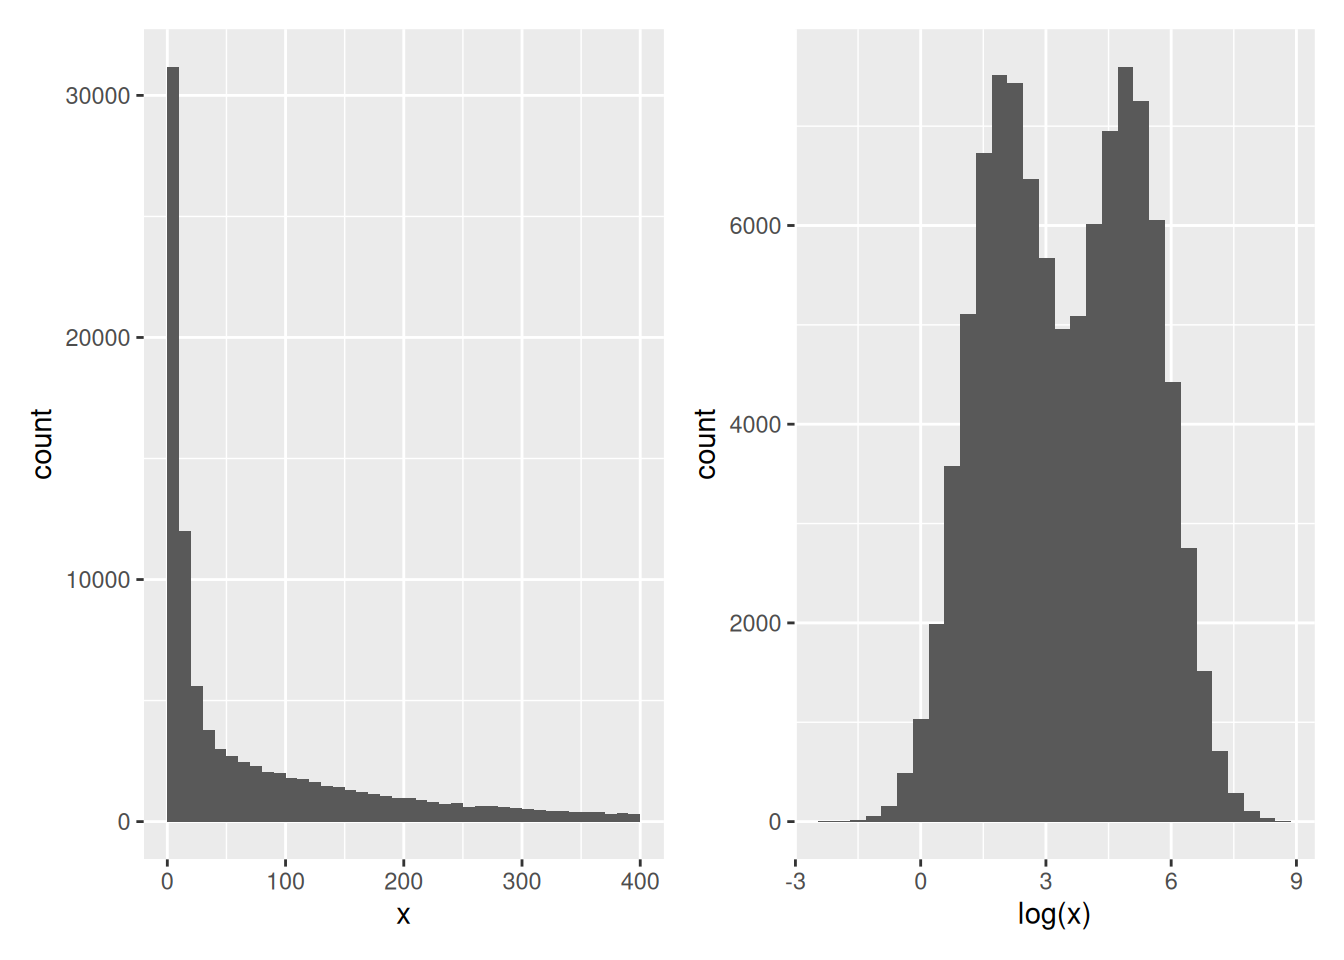
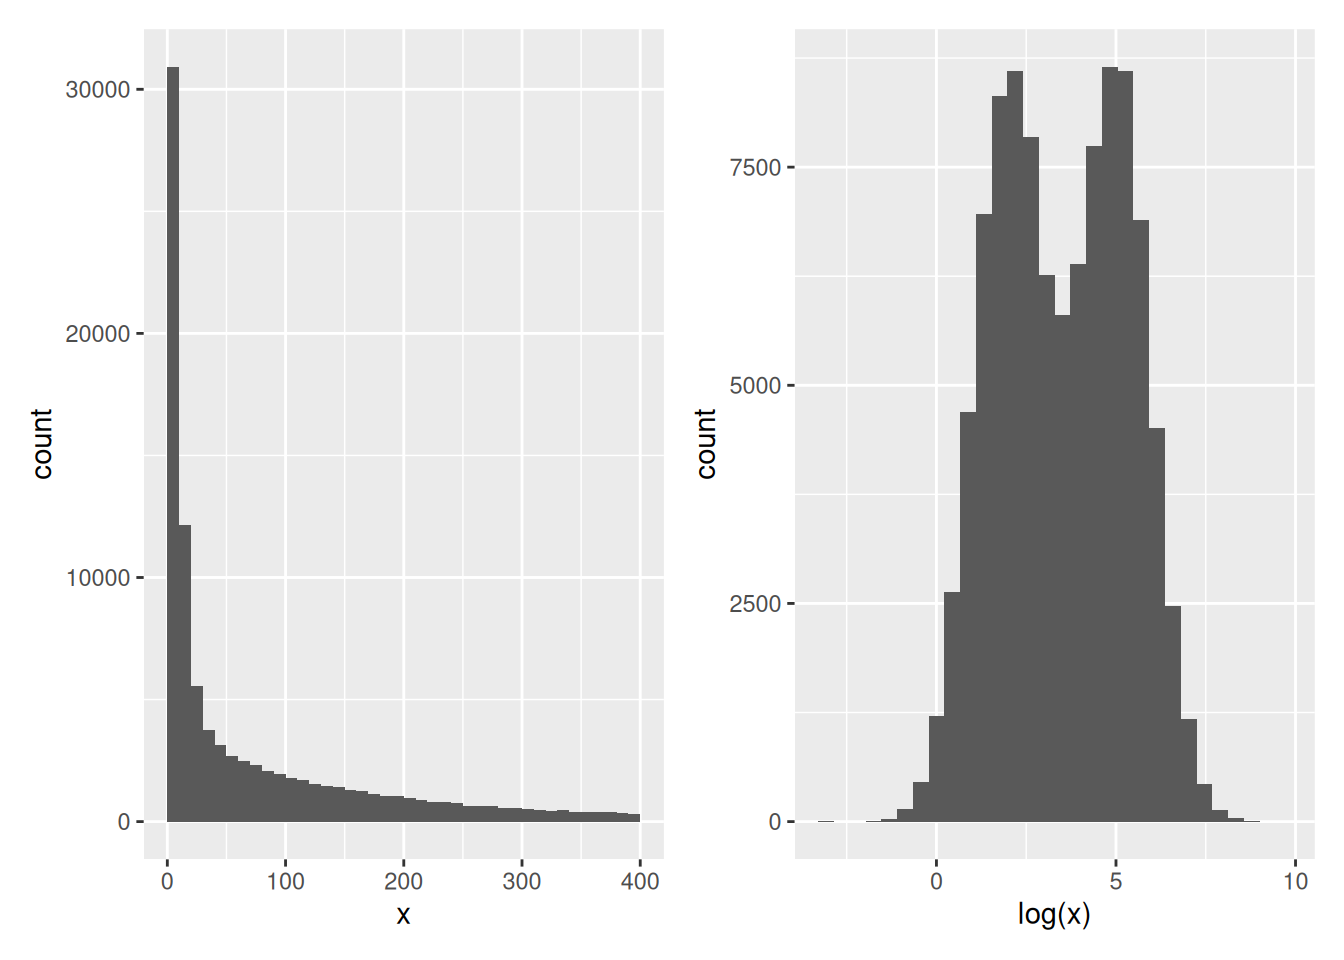
update pkg version

diff --git a/docs/sec-si.html b/docs/sec-si.html
@@ -13,7 +13,7 @@
 
 <meta name="author" content="Laurent Gatto" />
 
-<meta name="date" content="2022-11-14" />
+<meta name="date" content="2022-11-25" />
 
 <script type="text/x-mathjax-config">
 MathJax.Hub.Config({
@@ -209,8 +209,8 @@ div.csl-indent {
 ## Running under: Manjaro Linux
 ## 
 ## Matrix products: default
-## BLAS:   /usr/lib/libblas.so.3.10.1
-## LAPACK: /usr/lib/liblapack.so.3.10.1
+## BLAS:   /usr/lib/libblas.so.3.11.0
+## LAPACK: /usr/lib/liblapack.so.3.11.0
 ## 
 ## locale:
 ##  [1] LC_CTYPE=en_US.UTF-8       LC_NUMERIC=C              
@@ -227,7 +227,7 @@ div.csl-indent {
 ## other attached packages:
 ##  [1] UpSetR_1.4.0                          Vennerable_3.1.0.9000                
 ##  [3] ComplexHeatmap_2.14.0                 class_7.3-20                         
-##  [5] pRoloc_1.38.0                         BiocParallel_1.32.0                  
+##  [5] pRoloc_1.38.0                         BiocParallel_1.32.1                  
 ##  [7] MLInterfaces_1.78.0                   cluster_2.1.4                        
 ##  [9] annotate_1.76.0                       XML_3.99-0.12                        
 ## [11] AnnotationDbi_1.60.0                  bioDist_1.70.0                       
@@ -240,12 +240,12 @@ div.csl-indent {
 ## [25] Biostrings_2.66.0                     XVector_0.38.0                       
 ## [27] rWSBIM1207_0.1.15                     airway_1.18.0                        
 ## [29] SummarizedExperiment_1.28.0           Biobase_2.58.0                       
-## [31] GenomicRanges_1.50.1                  GenomeInfoDb_1.34.2                  
+## [31] GenomicRanges_1.50.1                  GenomeInfoDb_1.34.3                  
 ## [33] IRanges_2.32.0                        S4Vectors_0.36.0                     
 ## [35] BiocGenerics_0.44.0                   MatrixGenerics_1.10.0                
-## [37] matrixStats_0.62.0                    BiocStyle_2.26.0                     
+## [37] matrixStats_0.63.0                    BiocStyle_2.26.0                     
 ## [39] patchwork_1.1.2                       ggbeeswarm_0.6.0                     
-## [41] plotly_4.10.1                         Hmisc_4.7-1                          
+## [41] plotly_4.10.1                         Hmisc_4.7-2                          
 ## [43] Formula_1.2-4                         survival_3.4-0                       
 ## [45] lattice_0.20-45                       forcats_0.5.2                        
 ## [47] stringr_1.4.1                         dplyr_1.0.10                         
@@ -256,37 +256,37 @@ div.csl-indent {
 ## 
 ## loaded via a namespace (and not attached):
 ##   [1] rappdirs_0.3.3           ModelMetrics_1.2.2.2     coda_0.19-4             
-##   [4] bit64_4.0.5              knitr_1.40               DelayedArray_0.24.0     
-##   [7] data.table_1.14.4        rpart_4.1.19             hardhat_1.2.0           
+##   [4] bit64_4.0.5              knitr_1.41               DelayedArray_0.24.0     
+##   [7] data.table_1.14.6        rpart_4.1.19             hardhat_1.2.0           
 ##  [10] KEGGREST_1.38.0          RCurl_1.98-1.9           AnnotationFilter_1.22.0 
 ##  [13] doParallel_1.0.17        generics_0.1.3           preprocessCore_1.60.0   
 ##  [16] RSQLite_2.2.18           future_1.29.0            proxy_0.4-27            
-##  [19] bit_4.0.4                tzdb_0.3.0               xml2_1.3.3              
+##  [19] bit_4.0.5                tzdb_0.3.0               xml2_1.3.3              
 ##  [22] lubridate_1.9.0          assertthat_0.2.1         isoband_0.2.6           
 ##  [25] viridis_0.6.2            gargle_1.2.1             gower_1.0.0             
-##  [28] xfun_0.34                hms_1.1.2                jquerylib_0.1.4         
+##  [28] xfun_0.35                hms_1.1.2                jquerylib_0.1.4         
 ##  [31] evaluate_0.18            fansi_1.0.3              restfulr_0.0.15         
 ##  [34] progress_1.2.2           dendextend_1.16.0        dbplyr_2.2.1            
 ##  [37] readxl_1.4.1             igraph_1.3.5             DBI_1.1.3               
 ##  [40] htmlwidgets_1.5.4        googledrive_2.0.0        ellipsis_0.3.2          
-##  [43] ggpubr_0.4.0             backports_1.4.1          bookdown_0.29           
-##  [46] biomaRt_2.54.0           deldir_1.0-6             vctrs_0.5.0             
+##  [43] ggpubr_0.5.0             backports_1.4.1          bookdown_0.30           
+##  [46] biomaRt_2.54.0           deldir_1.0-6             vctrs_0.5.1             
 ##  [49] Cairo_1.6-0              abind_1.4-5              caret_6.0-93            
 ##  [52] cachem_1.0.6             withr_2.5.0              msmbstyle_0.0.19        
 ##  [55] vroom_1.6.0              checkmate_2.1.0          GenomicAlignments_1.34.0
-##  [58] prettyunits_1.1.1        mclust_6.0.0             segmented_1.6-0         
-##  [61] lazyeval_0.2.2           crayon_1.5.2             recipes_1.0.2           
+##  [58] prettyunits_1.1.1        mclust_6.0.0             segmented_1.6-1         
+##  [61] lazyeval_0.2.2           crayon_1.5.2             recipes_1.0.3           
 ##  [64] pkgconfig_2.0.3          labeling_0.4.2           nlme_3.1-160            
-##  [67] vipor_0.4.5              nnet_7.3-18              globals_0.16.1          
+##  [67] vipor_0.4.5              nnet_7.3-18              globals_0.16.2          
 ##  [70] rlang_1.0.6              lifecycle_1.0.3          LaplacesDemon_16.1.6    
 ##  [73] filelock_1.0.2           affyio_1.68.0            BiocFileCache_2.6.0     
-##  [76] modelr_0.1.9             randomForest_4.7-1.1     cellranger_1.1.0        
-##  [79] graph_1.76.0             Matrix_1.5-1             carData_3.0-5           
+##  [76] modelr_0.1.10            randomForest_4.7-1.1     cellranger_1.1.0        
+##  [79] graph_1.76.0             Matrix_1.5-3             carData_3.0-5           
 ##  [82] reprex_2.0.2             base64enc_0.1-3          beeswarm_0.4.0          
 ##  [85] GlobalOptions_0.1.2      googlesheets4_1.0.1      png_0.1-7               
 ##  [88] viridisLite_0.4.1        rjson_0.2.21             bitops_1.0-7            
 ##  [91] pROC_1.18.0              blob_1.2.3               shape_1.4.6             
-##  [94] parallelly_1.32.1        jpeg_0.1-9               rstatix_0.7.0           
+##  [94] parallelly_1.32.1        jpeg_0.1-9               rstatix_0.7.1           
 ##  [97] ggsignif_0.6.4           lpSolve_5.6.17           scales_1.2.1            
 ## [100] memoise_2.0.1           
 ##  [ reached getOption("max.print") -- omitted 83 entries ]</code></pre>
@@ -320,7 +320,7 @@ the following code:</p>
 <a href="sec-ccl.html"><button class="btn btn-default">Previous</button></a>
 </p>
 <p class="build-date">Page built: 
-2022-11-14
+2022-11-25
  using 
 R version 4.2.2 Patched (2022-11-02 r83238)
 </p>

diff --git a/docs/sec-vis.html b/docs/sec-vis.html
@@ -13,7 +13,7 @@
 
 <meta name="author" content="Laurent Gatto" />
 
-<meta name="date" content="2022-11-14" />
+<meta name="date" content="2022-11-25" />
 
 <script type="text/x-mathjax-config">
 MathJax.Hub.Config({
@@ -917,7 +917,7 @@ of the data.</p>
 <span id="cb37-9"><a href="sec-vis.html#cb37-9" aria-hidden="true" tabindex="-1"></a>p2 <span class="ot">&lt;-</span>  <span class="fu">ggplot</span>(sim, <span class="fu">aes</span>(<span class="fu">log</span>(x))) <span class="sc">+</span></span>
 <span id="cb37-10"><a href="sec-vis.html#cb37-10" aria-hidden="true" tabindex="-1"></a>    <span class="fu">geom_histogram</span>(<span class="at">bins =</span> <span class="dv">30</span>)</span>
 <span id="cb37-11"><a href="sec-vis.html#cb37-11" aria-hidden="true" tabindex="-1"></a>p1 <span class="sc">+</span> p2</span></code></pre></div>
-<pre><code>## Warning: Removed 7995 rows containing non-finite values (`stat_bin()`).</code></pre>
+<pre><code>## Warning: Removed 7904 rows containing non-finite values (`stat_bin()`).</code></pre>
 <div class="figure">
 <span style="display:block;" id="fig:sim"></span>
 <p class="caption marginnote shownote">
@@ -1173,7 +1173,7 @@ Analysis. Springer-Verlag New York.<a href="sec-vis.html#fnref3" class="footnote
 <a href="sec-obj.html"><button class="btn btn-default">Next</button></a>
 </p>
 <p class="build-date">Page built: 
-2022-11-14
+2022-11-25
  using 
 R version 4.2.2 Patched (2022-11-02 r83238)
 </p>

diff --git a/docs/sec-ccl.html b/docs/sec-ccl.html
@@ -13,7 +13,7 @@
 
 <meta name="author" content="Laurent Gatto" />
 
-<meta name="date" content="2022-11-14" />
+<meta name="date" content="2022-11-25" />
 
 <script type="text/x-mathjax-config">
 MathJax.Hub.Config({
@@ -461,7 +461,7 @@ above.</p>
 </p>
 <div class="question-body">
 <p>Load the <code>recapSE1</code> data available in the <code>rWSBIM1322</code> package
-(version &gt;= 0.3.0) with <code>data(recapSE1)</code>. The data contains
+(version &gt;= 0.3.1) with <code>data(recapSE1)</code>. The data contains
 quantitative proteomics data. You are asked to:</p>
 <ul>
 <li>Familiarise yourself with the experimental design.</li>
@@ -487,7 +487,7 @@ between all treatments?</li>
 </p>
 <div class="question-body">
 <p>Load the <code>recapSE2</code> data available in the <code>rWSBIM1322</code> package
-(version &gt;= 0.3.0) with <code>data(recapSE2)</code>. The data contains
+(version &gt;= 0.3.2) with <code>data(recapSE2)</code>. The data contains
 quantitative proteomics data. You are asked to:</p>
 <ul>
 <li>Familiarise yourself with the experimental design.</li>
@@ -513,7 +513,7 @@ effect of that outlier of the differential analysis.</li>
 <a href="sec-si.html"><button class="btn btn-default">Next</button></a>
 </p>
 <p class="build-date">Page built: 
-2022-11-14
+2022-11-25
  using 
 R version 4.2.2 Patched (2022-11-02 r83238)
 </p>

diff --git a/docs/sec-obj.html b/docs/sec-obj.html
@@ -13,7 +13,7 @@
 
 <meta name="author" content="Laurent Gatto" />
 
-<meta name="date" content="2022-11-14" />
+<meta name="date" content="2022-11-25" />
 
 <script type="text/x-mathjax-config">
 MathJax.Hub.Config({
@@ -1007,7 +1007,7 @@ missing.<a href="sec-obj.html#fnref6" class="footnote-back">↩</a></p></li>
 <a href="sec-biostrings.html"><button class="btn btn-default">Next</button></a>
 </p>
 <p class="build-date">Page built: 
-2022-11-14
+2022-11-25
  using 
 R version 4.2.2 Patched (2022-11-02 r83238)
 </p>

diff --git a/docs/index.html b/docs/index.html
@@ -13,7 +13,7 @@
 
 <meta name="author" content="Laurent Gatto" />
 
-<meta name="date" content="2022-11-14" />
+<meta name="date" content="2022-11-25" />
 
 <script type="text/x-mathjax-config">
 MathJax.Hub.Config({
@@ -346,7 +346,7 @@ style</a> <span class="citation">(<label for="tufte-mn-10" class="margin-toggle"
 <a href="sec-refresher.html"><button class="btn btn-default">Next</button></a>
 </p>
 <p class="build-date">Page built: 
-2022-11-14
+2022-11-25
  using 
 R version 4.2.2 Patched (2022-11-02 r83238)
 </p>

diff --git a/docs/sec-sl.html b/docs/sec-sl.html
@@ -13,7 +13,7 @@
 
 <meta name="author" content="Laurent Gatto" />
 
-<meta name="date" content="2022-11-14" />
+<meta name="date" content="2022-11-25" />
 
 <script type="text/x-mathjax-config">
 MathJax.Hub.Config({
@@ -1061,7 +1061,7 @@ patients, for example.<a href="sec-sl.html#fnref14" class="footnote-back">↩
 <a href="sec-biovis.html"><button class="btn btn-default">Next</button></a>
 </p>
 <p class="build-date">Page built: 
-2022-11-14
+2022-11-25
  using 
 R version 4.2.2 Patched (2022-11-02 r83238)
 </p>

diff --git a/docs/sec-norm.html b/docs/sec-norm.html
@@ -13,7 +13,7 @@
 
 <meta name="author" content="Laurent Gatto" />
 
-<meta name="date" content="2022-11-14" />
+<meta name="date" content="2022-11-25" />
 
 <script type="text/x-mathjax-config">
 MathJax.Hub.Config({
@@ -769,7 +769,7 @@ variability of such experimental data.<a href="sec-norm.html#fnref8" class="foot
 <a href="sec-mlintro.html"><button class="btn btn-default">Next</button></a>
 </p>
 <p class="build-date">Page built: 
-2022-11-14
+2022-11-25
  using 
 R version 4.2.2 Patched (2022-11-02 r83238)
 </p>

diff --git a/docs/sec-ul.html b/docs/sec-ul.html
@@ -13,7 +13,7 @@
 
 <meta name="author" content="Laurent Gatto" />
 
-<meta name="date" content="2022-11-14" />
+<meta name="date" content="2022-11-25" />
 
 <script type="text/x-mathjax-config">
 MathJax.Hub.Config({
@@ -1007,7 +1007,7 @@ features or samples.<a href="sec-ul.html#fnref12" class="footnote-back">↩</
 <a href="sec-sl.html"><button class="btn btn-default">Next</button></a>
 </p>
 <p class="build-date">Page built: 
-2022-11-14
+2022-11-25
  using 
 R version 4.2.2 Patched (2022-11-02 r83238)
 </p>

diff --git a/docs/sec-biovis.html b/docs/sec-biovis.html
@@ -13,7 +13,7 @@
 
 <meta name="author" content="Laurent Gatto" />
 
-<meta name="date" content="2022-11-14" />
+<meta name="date" content="2022-11-25" />
 
 <script type="text/x-mathjax-config">
 MathJax.Hub.Config({
@@ -497,7 +497,7 @@ number of intersections (default is 40) become useful.</p>
 <a href="sec-ccl.html"><button class="btn btn-default">Next</button></a>
 </p>
 <p class="build-date">Page built: 
-2022-11-14
+2022-11-25
  using 
 R version 4.2.2 Patched (2022-11-02 r83238)
 </p>

diff --git a/docs/sec-mlintro.html b/docs/sec-mlintro.html
@@ -13,7 +13,7 @@
 
 <meta name="author" content="Laurent Gatto" />
 
-<meta name="date" content="2022-11-14" />
+<meta name="date" content="2022-11-25" />
 
 <script type="text/x-mathjax-config">
 MathJax.Hub.Config({
@@ -760,7 +760,7 @@ but these are beyond the scope of this course.</p>
 <a href="sec-testing.html"><button class="btn btn-default">Next</button></a>
 </p>
 <p class="build-date">Page built: 
-2022-11-14
+2022-11-25
  using 
 R version 4.2.2 Patched (2022-11-02 r83238)
 </p>

diff --git a/docs/sec-refresher.html b/docs/sec-refresher.html
@@ -13,7 +13,7 @@
 
 <meta name="author" content="Laurent Gatto" />
 
-<meta name="date" content="2022-11-14" />
+<meta name="date" content="2022-11-25" />
 
 <script type="text/x-mathjax-config">
 MathJax.Hub.Config({
@@ -371,7 +371,7 @@ state it explicitly in your response.</p>
 <a href="sec-vis.html"><button class="btn btn-default">Next</button></a>
 </p>
 <p class="build-date">Page built: 
-2022-11-14
+2022-11-25
  using 
 R version 4.2.2 Patched (2022-11-02 r83238)
 </p>

diff --git a/docs/sec-testing.html b/docs/sec-testing.html
@@ -13,7 +13,7 @@
 
 <meta name="author" content="Laurent Gatto" />
 
-<meta name="date" content="2022-11-14" />
+<meta name="date" content="2022-11-25" />
 
 <script type="text/x-mathjax-config">
 MathJax.Hub.Config({
@@ -1145,7 +1145,7 @@ conclusion now?</li>
 <a href="sec-dimred.html"><button class="btn btn-default">Next</button></a>
 </p>
 <p class="build-date">Page built: 
-2022-11-14
+2022-11-25
  using 
 R version 4.2.2 Patched (2022-11-02 r83238)
 </p>
